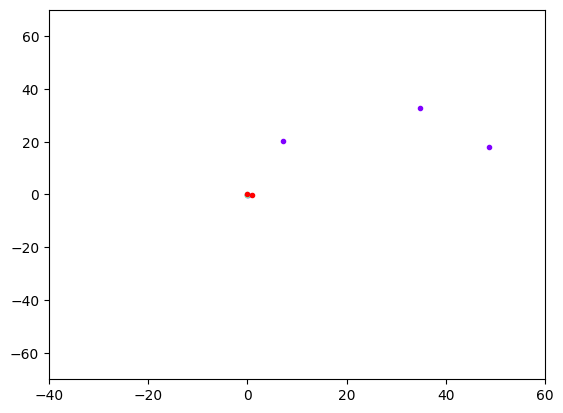
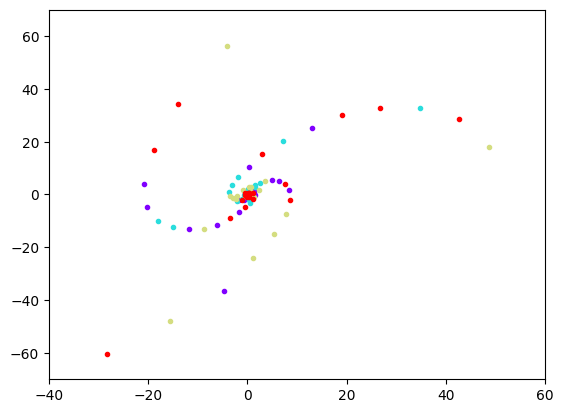
ran

diff --git a/src/rl_pipeline/train_agents.py b/src/rl_pipeline/train_agents.py
@@ -51,7 +51,7 @@ def train_SPG(env, num_episodes, episode_length, actor_lr, critic_lr,
             #print(action)
 
             # Epsilon exploration
-            if np.random.rand() < epsilon:
+            if np.random.rand() < 1: #epsilon:
             # Add noise in the form of 2-exchange neighborhoods
                 for r in range(2):
                     # randomly choose two row idxs
